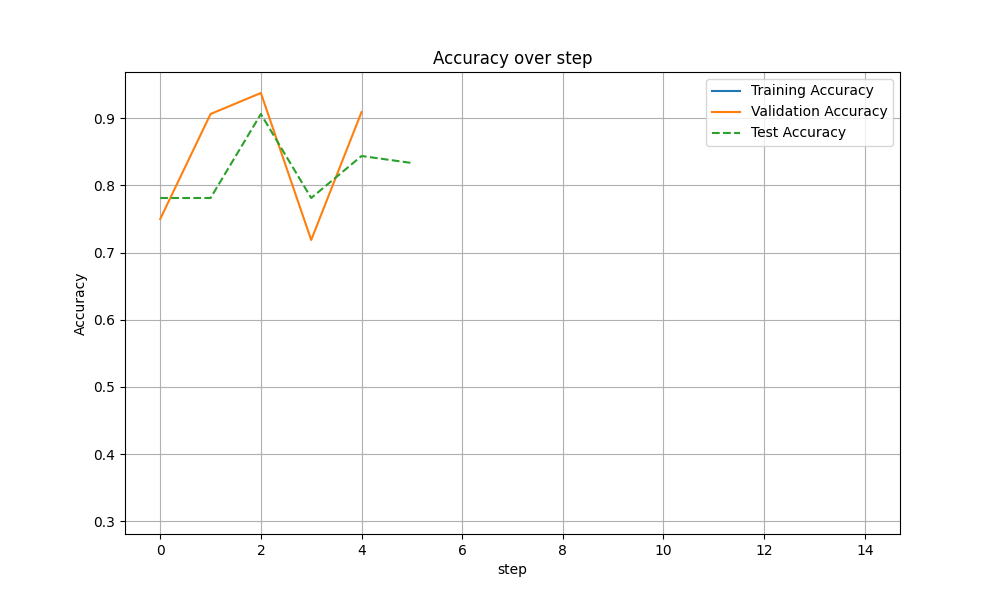
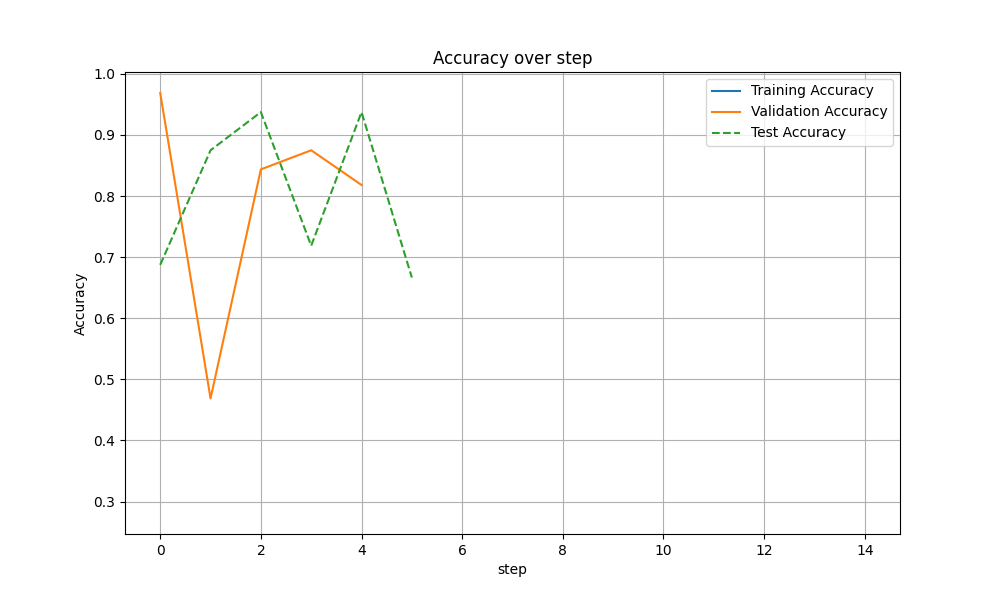
dvc repro tested again

diff --git a/src/utils/logging_utils.py b/src/utils/logging_utils.py
@@ -30,3 +30,28 @@ def get_rich_progress():
         TextColumn("[progress.description]{task.description}"),
         transient=True
     )
+
+
+#=========================================================
+import torch 
+import lightning as pl 
+from sklearn.metrics import confusion_matrix
+
+def plot_confusion_matrix(model:pl.LightningModule,datamodule:pl.LightningDataModule):
+    model.eval()
+    y_pred = []
+    y_true = []
+    for batch in datamodule.train_dataloader():
+        x,y = batch 
+        logits = model(x)
+        loss   = torch.nn.functional.cross_entropy(logits,y)
+        preds  = torch.nn.functional.softmax(logits,dim=-1)
+        # preds,true comes in batch(32)
+        preds  = torch.argmax(preds,dim=-1)
+        for i,j in zip(preds,y):
+            print(y.shape,preds.shape,type(y),type(preds))
+            y_true.append(j.item())
+            y_pred.append(i.item())
+    print(confusion_matrix(y_true=y_true, y_pred=y_pred))
+    
+# ==========================================

diff --git a/scripts/generate_plots.py b/scripts/generate_plots.py
@@ -2,6 +2,12 @@ import os
 import pandas as pd
 import matplotlib.pyplot as plt
 from glob import glob
+import torch 
+import hydra
+from omegaconf import DictConfig
+from sklearn.metrics import confusion_matrix
+import seaborn as sns
+import numpy as np
 
 # Find the most recent metrics.csv file
 csv_files = glob("outputs/*/*/csv/version_*/metrics.csv")
@@ -43,6 +49,9 @@ test_metrics = df.iloc[-1]
 test_table = "| Metric | Value |\n|--------|-------|\n"
 test_table += f"| Test Accuracy | {test_metrics['test/acc_epoch']:.4f} |\n"
 test_table += f"| Test Loss | {test_metrics['test/loss_epoch']:.4f} |\n"
+
+# =========================
+
 
 # Write the test metrics table to a file
 with open("test_metrics.md", "w") as f:

diff --git a/test_metrics.md b/test_metrics.md
@@ -1,4 +1,4 @@
 | Metric | Value |
 |--------|-------|
-| Test Accuracy | 0.8193 |
-| Test Loss | 1.8786 |
+| Test Accuracy | 0.8253 |
+| Test Loss | 1.8477 |
